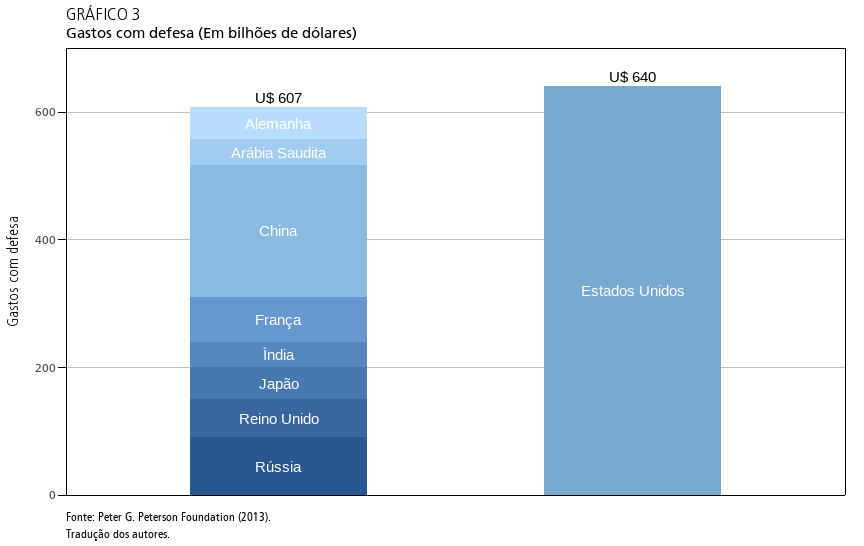
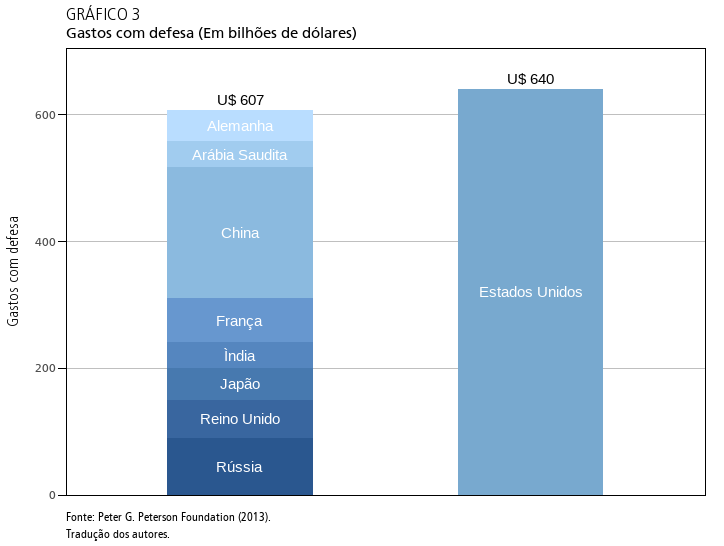
Deploying to gh-pages from @ ipeadata-lab/ipeaplot@39b6aeb59ce3860e448aad40e59edc08a3f2ebe5 🚀

diff --git a/articles/cookbook.html b/articles/cookbook.html
@@ -71,7 +71,7 @@
   <main id="main" class="col-md-9"><div class="page-header">
       <img src="" class="logo" alt=""><h1>Cookbook ipeaplot</h1>
             
-            <h4 data-toc-skip class="date">2024-03-05</h4>
+            <h4 data-toc-skip class="date">2024-03-09</h4>
       
       <small class="dont-index">Source: <a href="https://github.com/ipeadata-lab/ipeaplot/blob/HEAD/vignettes/cookbook.Rmd" class="external-link"><code>vignettes/cookbook.Rmd</code></a></small>
       <div class="d-none name"><code>cookbook.Rmd</code></div>
@@ -228,7 +228,7 @@ Ipea.</p>
 <span>       title<span class="op">=</span><span class="st">"GRÁFICO 1"</span>,</span>
 <span>       subtitle<span class="op">=</span><span class="st">"Evolução do crescimento da população mundial 2000-2050\n(Em bilhões)"</span>,</span>
 <span>       caption <span class="op">=</span> <span class="st">'Fonte: United Nations (2012a).\nTradução dos autores.'</span><span class="op">)</span> <span class="op">+</span></span>
-<span>  <span class="fu"><a href="../reference/theme_ipea.html">theme_ipea</a></span><span class="op">(</span>x_breaks <span class="op">=</span> <span class="fl">10</span>,include_ticks <span class="op">=</span> <span class="cn">F</span>,</span>
+<span>  <span class="fu"><a href="../reference/theme_ipea.html">theme_ipea</a></span><span class="op">(</span>x_breaks <span class="op">=</span> <span class="fl">11</span>,include_ticks <span class="op">=</span> <span class="cn">F</span>,</span>
 <span>             include_x_text_title <span class="op">=</span> <span class="cn">F</span>,include_y_text_title <span class="op">=</span> <span class="cn">F</span><span class="op">)</span> <span class="op">+</span></span>
 <span>  <span class="fu"><a href="https://ggplot2.tidyverse.org/reference/geom_text.html" class="external-link">geom_text</a></span><span class="op">(</span><span class="fu"><a href="https://ggplot2.tidyverse.org/reference/aes.html" class="external-link">aes</a></span><span class="op">(</span>label <span class="op">=</span> <span class="fu"><a href="https://rdrr.io/r/base/grep.html" class="external-link">gsub</a></span><span class="op">(</span><span class="st">"\\."</span>, <span class="st">","</span>,<span class="fu"><a href="https://rdrr.io/r/base/Round.html" class="external-link">round</a></span><span class="op">(</span><span class="va">Populacao</span>,<span class="fl">1</span><span class="op">)</span><span class="op">)</span><span class="op">)</span>,</span>
 <span>            hjust <span class="op">=</span> <span class="fl">0.5</span>, vjust <span class="op">=</span> <span class="op">-</span><span class="fl">0.5</span><span class="op">)</span></span></code></pre></div>
@@ -256,9 +256,9 @@ Ipea.</p>
 <span>       title<span class="op">=</span><span class="st">"GRÁFICO 2"</span>,</span>
 <span>       subtitle<span class="op">=</span><span class="st">"Taxa de crescimento da população mundial (Em %)"</span>,</span>
 <span>       caption <span class="op">=</span> <span class="st">'Elaboração dos autores.'</span><span class="op">)</span> <span class="op">+</span></span>
-<span>  <span class="fu"><a href="../reference/theme_ipea.html">theme_ipea</a></span><span class="op">(</span>x_breaks <span class="op">=</span> <span class="fl">16</span>, x_text_angle <span class="op">=</span> <span class="fl">90</span>, include_ticks <span class="op">=</span> <span class="cn">F</span>,</span>
+<span>  <span class="fu"><a href="../reference/theme_ipea.html">theme_ipea</a></span><span class="op">(</span>x_breaks <span class="op">=</span> <span class="fl">16</span>, x_text_angle <span class="op">=</span> <span class="fl">90</span>, include_ticks <span class="op">=</span> <span class="cn">F</span>,expand_y_limit <span class="op">=</span> <span class="cn">T</span>,</span>
 <span>             include_x_text_title <span class="op">=</span> <span class="cn">F</span>,include_y_text_title <span class="op">=</span> <span class="cn">F</span><span class="op">)</span> <span class="op">+</span></span>
-<span>  <span class="fu"><a href="https://ggplot2.tidyverse.org/reference/geom_rug.html" class="external-link">geom_rug</a></span><span class="op">(</span>data <span class="op">=</span> <span class="va">ref</span>, <span class="fu"><a href="https://ggplot2.tidyverse.org/reference/aes.html" class="external-link">aes</a></span><span class="op">(</span>x <span class="op">=</span> <span class="va">Ano</span><span class="op">+</span><span class="fl">2.5</span><span class="op">)</span>,inherit.aes <span class="op">=</span> <span class="cn">FALSE</span>,</span>
+<span>  <span class="fu"><a href="https://ggplot2.tidyverse.org/reference/geom_rug.html" class="external-link">geom_rug</a></span><span class="op">(</span>data <span class="op">=</span> <span class="va">ref</span>, <span class="fu"><a href="https://ggplot2.tidyverse.org/reference/aes.html" class="external-link">aes</a></span><span class="op">(</span>x <span class="op">=</span> <span class="va">Ano</span><span class="op">+</span><span class="fl">1</span><span class="op">)</span>,inherit.aes <span class="op">=</span> <span class="cn">FALSE</span>,</span>
 <span>           outside <span class="op">=</span> <span class="cn">TRUE</span>, sides <span class="op">=</span> <span class="st">"b"</span>, length <span class="op">=</span> <span class="fu"><a href="https://rdrr.io/r/grid/unit.html" class="external-link">unit</a></span><span class="op">(</span><span class="fl">2</span>, <span class="st">"mm"</span><span class="op">)</span>, linewidth <span class="op">=</span> <span class="fl">0.25</span><span class="op">)</span> <span class="op">+</span></span>
 <span>  <span class="fu"><a href="https://ggplot2.tidyverse.org/reference/coord_cartesian.html" class="external-link">coord_cartesian</a></span><span class="op">(</span>clip <span class="op">=</span> <span class="st">"off"</span><span class="op">)</span></span></code></pre></div>
 <p><img src="prints_ipeaplot/grafico2.png" width="100%" style="display: block; margin: auto;"></p>
@@ -341,7 +341,8 @@ Ipea.</p>
 <span>       title<span class="op">=</span><span class="st">"GRÁFICO 5"</span>,</span>
 <span>       subtitle<span class="op">=</span><span class="st">"Crescimento anual do PIB da União Europeia (2004-2013) (Em %)"</span>,</span>
 <span>       caption <span class="op">=</span> <span class="st">'Fonte: World Bank (2014).\nTradução dos autores.\nObs.: Os dados foram coletados no sítio do Banco Mundial.\nDisponível em: &lt;http://goo.gl/IvtZ1a&gt;. Acesso em: 26 set. 2014.'</span><span class="op">)</span> <span class="op">+</span></span>
-<span>  <span class="fu"><a href="../reference/theme_ipea.html">theme_ipea</a></span><span class="op">(</span>x_breaks <span class="op">=</span> <span class="fl">8</span>, y_breaks <span class="op">=</span> <span class="fl">10</span>, legend.position <span class="op">=</span> <span class="st">'bottom'</span>, expand_x_limit <span class="op">=</span> <span class="cn">F</span>,</span>
+<span>  <span class="fu"><a href="../reference/theme_ipea.html">theme_ipea</a></span><span class="op">(</span>x_breaks <span class="op">=</span> <span class="fl">8</span>, y_breaks <span class="op">=</span> <span class="fl">10</span>, legend.position <span class="op">=</span> <span class="st">'bottom'</span>,</span>
+<span>             expand_y_limit <span class="op">=</span> <span class="cn">T</span>,expand_x_limit <span class="op">=</span> <span class="cn">F</span>,</span>
 <span>             include_x_text_title <span class="op">=</span> <span class="cn">F</span>,include_y_text_title <span class="op">=</span> <span class="cn">F</span><span class="op">)</span> <span class="op">+</span></span>
 <span>  <span class="fu"><a href="../reference/scale_color_ipea.html">scale_color_ipea</a></span><span class="op">(</span>palette_direction <span class="op">=</span> <span class="op">-</span><span class="fl">1</span>, <span class="op">)</span> <span class="op">+</span></span>
 <span>  <span class="fu"><a href="https://ggplot2.tidyverse.org/reference/scale_manual.html" class="external-link">scale_shape_manual</a></span><span class="op">(</span>values <span class="op">=</span> <span class="fu"><a href="https://rdrr.io/r/base/c.html" class="external-link">c</a></span><span class="op">(</span><span class="fl">19</span>, <span class="fl">21</span><span class="op">)</span><span class="op">)</span> <span class="op">+</span></span>
@@ -355,14 +356,12 @@ Ipea.</p>
 <div class="section level3">
 <h3 id="original-5">Original<a class="anchor" aria-label="anchor" href="#original-5"></a>
 </h3>
-<div class="sourceCode" id="cb8"><pre class="downlit sourceCode r">
-<code class="sourceCode R"><span><span class="fu">knitr</span><span class="fu">::</span><span class="fu"><a href="https://rdrr.io/pkg/knitr/man/include_graphics.html" class="external-link">include_graphics</a></span><span class="op">(</span><span class="fu"><a href="https://rdrr.io/r/base/paste.html" class="external-link">paste0</a></span><span class="op">(</span><span class="fu"><a href="https://rdrr.io/r/base/getwd.html" class="external-link">getwd</a></span><span class="op">(</span><span class="op">)</span>,<span class="st">"/prints_original/grafico6.png"</span><span class="op">)</span><span class="op">)</span></span></code></pre></div>
 <p><img src="prints_original/grafico6.png" width="100%" style="display: block; margin: auto;"></p>
 </div>
 <div class="section level3">
 <h3 id="padrão-ipea-5">Padrão Ipea<a class="anchor" aria-label="anchor" href="#padr%C3%A3o-ipea-5"></a>
 </h3>
-<div class="sourceCode" id="cb9"><pre class="downlit sourceCode r">
+<div class="sourceCode" id="cb8"><pre class="downlit sourceCode r">
 <code class="sourceCode R"><span><span class="va">base_graf6</span><span class="op">$</span><span class="va">pais</span><span class="op">&lt;-</span> <span class="fu"><a href="https://rdrr.io/r/base/factor.html" class="external-link">factor</a></span><span class="op">(</span><span class="va">base_graf6</span><span class="op">$</span><span class="va">pais</span>, levels<span class="op">=</span><span class="fu"><a href="https://rdrr.io/r/base/rev.html" class="external-link">rev</a></span><span class="op">(</span><span class="fu"><a href="https://rdrr.io/r/base/sort.html" class="external-link">sort</a></span><span class="op">(</span><span class="va">base_graf6</span><span class="op">$</span><span class="va">pais</span><span class="op">)</span><span class="op">)</span><span class="op">)</span></span>
 <span><span class="va">graf6</span> <span class="op">&lt;-</span> <span class="fu"><a href="https://ggplot2.tidyverse.org/reference/ggplot.html" class="external-link">ggplot</a></span><span class="op">(</span>data<span class="op">=</span><span class="va">base_graf6</span>, <span class="fu"><a href="https://ggplot2.tidyverse.org/reference/aes.html" class="external-link">aes</a></span><span class="op">(</span>x<span class="op">=</span><span class="va">pais</span>, y<span class="op">=</span><span class="va">petroleo</span><span class="op">)</span><span class="op">)</span> <span class="op">+</span></span>
 <span>  <span class="fu"><a href="https://ggplot2.tidyverse.org/reference/geom_bar.html" class="external-link">geom_bar</a></span><span class="op">(</span>stat<span class="op">=</span><span class="st">"identity"</span>, fill <span class="op">=</span> <span class="st">'#015f96'</span><span class="op">)</span> <span class="op">+</span></span>
@@ -387,7 +386,7 @@ Ipea.</p>
 <div class="section level3">
 <h3 id="padrão-ipea-6">Padrão Ipea<a class="anchor" aria-label="anchor" href="#padr%C3%A3o-ipea-6"></a>
 </h3>
-<div class="sourceCode" id="cb10"><pre class="downlit sourceCode r">
+<div class="sourceCode" id="cb9"><pre class="downlit sourceCode r">
 <code class="sourceCode R"><span><span class="va">base_graf7</span><span class="op">&lt;-</span> <span class="fu"><a href="https://rdrr.io/pkg/reshape/man/melt-24.html" class="external-link">melt</a></span><span class="op">(</span><span class="va">base_graf7</span>, id<span class="op">=</span><span class="fu"><a href="https://rdrr.io/r/base/c.html" class="external-link">c</a></span><span class="op">(</span><span class="st">"pais"</span><span class="op">)</span><span class="op">)</span></span>
 <span></span>
 <span><span class="va">graf7</span> <span class="op">&lt;-</span> <span class="fu"><a href="https://ggplot2.tidyverse.org/reference/ggplot.html" class="external-link">ggplot</a></span><span class="op">(</span>data<span class="op">=</span><span class="va">base_graf7</span>, <span class="fu"><a href="https://ggplot2.tidyverse.org/reference/aes.html" class="external-link">aes</a></span><span class="op">(</span>x<span class="op">=</span><span class="va">pais</span>, y<span class="op">=</span><span class="va">value</span>, group<span class="op">=</span><span class="va">variable</span>, fill<span class="op">=</span><span class="va">variable</span><span class="op">)</span><span class="op">)</span> <span class="op">+</span></span>
@@ -414,36 +413,37 @@ Ipea.</p>
 <div class="section level3">
 <h3 id="padrão-ipea-7">Padrão Ipea<a class="anchor" aria-label="anchor" href="#padr%C3%A3o-ipea-7"></a>
 </h3>
-<div class="sourceCode" id="cb11"><pre class="downlit sourceCode r">
+<div class="sourceCode" id="cb10"><pre class="downlit sourceCode r">
 <code class="sourceCode R"><span><span class="co">######## GRAFICO 8</span></span>
 <span><span class="va">base_graf8_aux</span> <span class="op">&lt;-</span> <span class="va">base_graf8</span><span class="op">[</span>,<span class="fu"><a href="https://rdrr.io/r/base/c.html" class="external-link">c</a></span><span class="op">(</span><span class="fl">1</span>,<span class="fl">4</span><span class="op">)</span><span class="op">]</span></span>
 <span><span class="va">base_graf8_aux</span><span class="op">$</span><span class="va">n</span> <span class="op">&lt;-</span> <span class="fl">1</span><span class="op">:</span><span class="fu"><a href="https://rdrr.io/r/base/nrow.html" class="external-link">nrow</a></span><span class="op">(</span><span class="va">base_graf8_aux</span><span class="op">)</span></span>
-<span><span class="va">base_graf8</span><span class="op">&lt;-</span> <span class="fu"><a href="https://rdrr.io/pkg/reshape/man/melt-24.html" class="external-link">melt</a></span><span class="op">(</span><span class="va">base_graf8</span><span class="op">[</span>,<span class="op">-</span><span class="fl">4</span><span class="op">]</span>, id<span class="op">=</span><span class="fu"><a href="https://rdrr.io/r/base/c.html" class="external-link">c</a></span><span class="op">(</span><span class="st">"pais"</span><span class="op">)</span><span class="op">)</span></span>
+<span><span class="va">base_graf8_new</span> <span class="op">&lt;-</span> <span class="va">base_graf8</span><span class="op">[</span>,<span class="op">-</span><span class="fl">4</span><span class="op">]</span></span>
+<span><span class="va">base_graf8_new</span><span class="op">&lt;-</span> <span class="fu"><a href="https://rdrr.io/pkg/reshape/man/melt-24.html" class="external-link">melt</a></span><span class="op">(</span><span class="va">base_graf8_new</span>, id<span class="op">=</span><span class="fu"><a href="https://rdrr.io/r/base/c.html" class="external-link">c</a></span><span class="op">(</span><span class="st">"pais"</span><span class="op">)</span><span class="op">)</span></span>
 <span></span>
-<span><span class="va">base_graf8</span> <span class="op">&lt;-</span> <span class="va">base_graf8</span> <span class="op"><a href="https://magrittr.tidyverse.org/reference/pipe.html" class="external-link">%&gt;%</a></span></span>
+<span><span class="va">base_graf8_new</span> <span class="op">&lt;-</span> <span class="va">base_graf8_new</span> <span class="op"><a href="https://magrittr.tidyverse.org/reference/pipe.html" class="external-link">%&gt;%</a></span></span>
 <span>  <span class="fu"><a href="https://dplyr.tidyverse.org/reference/group_by.html" class="external-link">group_by</a></span><span class="op">(</span><span class="va">variable</span><span class="op">)</span> <span class="op"><a href="https://magrittr.tidyverse.org/reference/pipe.html" class="external-link">%&gt;%</a></span></span>
 <span>  <span class="fu"><a href="https://dplyr.tidyverse.org/reference/mutate.html" class="external-link">mutate</a></span><span class="op">(</span>n <span class="op">=</span> <span class="fl">1</span><span class="op">:</span><span class="fu"><a href="https://dplyr.tidyverse.org/reference/context.html" class="external-link">n</a></span><span class="op">(</span><span class="op">)</span><span class="op">)</span></span>
 <span></span>
-<span><span class="va">label</span> <span class="op">&lt;-</span> <span class="op">(</span><span class="va">base_graf8</span> <span class="op"><a href="https://magrittr.tidyverse.org/reference/pipe.html" class="external-link">%&gt;%</a></span> <span class="fu"><a href="https://dplyr.tidyverse.org/reference/group_by.html" class="external-link">ungroup</a></span><span class="op">(</span><span class="op">)</span> <span class="op"><a href="https://magrittr.tidyverse.org/reference/pipe.html" class="external-link">%&gt;%</a></span> <span class="fu"><a href="https://dplyr.tidyverse.org/reference/distinct.html" class="external-link">distinct</a></span><span class="op">(</span><span class="va">pais</span><span class="op">)</span><span class="op">)</span><span class="op">$</span><span class="va">pais</span></span>
+<span><span class="va">label</span> <span class="op">&lt;-</span> <span class="op">(</span><span class="va">base_graf8_new</span> <span class="op"><a href="https://magrittr.tidyverse.org/reference/pipe.html" class="external-link">%&gt;%</a></span> <span class="fu"><a href="https://dplyr.tidyverse.org/reference/group_by.html" class="external-link">ungroup</a></span><span class="op">(</span><span class="op">)</span> <span class="op"><a href="https://magrittr.tidyverse.org/reference/pipe.html" class="external-link">%&gt;%</a></span> <span class="fu"><a href="https://dplyr.tidyverse.org/reference/distinct.html" class="external-link">distinct</a></span><span class="op">(</span><span class="va">pais</span><span class="op">)</span><span class="op">)</span><span class="op">$</span><span class="va">pais</span></span>
 <span></span>
 <span><span class="va">graf8</span> <span class="op">&lt;-</span></span>
 <span>  <span class="fu"><a href="https://ggplot2.tidyverse.org/reference/ggplot.html" class="external-link">ggplot</a></span><span class="op">(</span><span class="op">)</span> <span class="op">+</span></span>
-<span>  <span class="fu"><a href="https://ggplot2.tidyverse.org/reference/geom_bar.html" class="external-link">geom_bar</a></span><span class="op">(</span>data<span class="op">=</span><span class="va">base_graf8</span>, <span class="fu"><a href="https://ggplot2.tidyverse.org/reference/aes.html" class="external-link">aes</a></span><span class="op">(</span>x<span class="op">=</span><span class="va">n</span>, y<span class="op">=</span><span class="va">value</span>,</span>
-<span>                                group<span class="op">=</span><span class="va">variable</span>, fill<span class="op">=</span><span class="va">variable</span><span class="op">)</span>,</span>
-<span>           stat<span class="op">=</span><span class="st">"identity"</span>, width <span class="op">=</span> <span class="fl">0.5</span><span class="op">)</span> <span class="op">+</span></span>
-<span>  <span class="fu"><a href="https://ggplot2.tidyverse.org/reference/labs.html" class="external-link">labs</a></span><span class="op">(</span>fill <span class="op">=</span> <span class="st">""</span>,</span>
-<span>       title<span class="op">=</span><span class="st">"GRÁFICO 8"</span>,</span>
-<span>       subtitle<span class="op">=</span><span class="st">"Crescimento médio real do PIB em PPC (2011-2050) (Em %)"</span>,</span>
-<span>       caption <span class="op">=</span> <span class="st">'Fonte: PwC (2014).\nTradução dos autores'</span><span class="op">)</span> <span class="op">+</span></span>
-<span>  <span class="fu"><a href="https://ggplot2.tidyverse.org/reference/geom_path.html" class="external-link">geom_line</a></span><span class="op">(</span>data<span class="op">=</span><span class="va">base_graf8_aux</span>, <span class="fu"><a href="https://ggplot2.tidyverse.org/reference/aes.html" class="external-link">aes</a></span><span class="op">(</span>x<span class="op">=</span><span class="va">n</span> ,y<span class="op">=</span><span class="va">`crescimento do PIB (ppc)_perct`</span>, group <span class="op">=</span> <span class="fl">1</span><span class="op">)</span>,</span>
-<span>            color <span class="op">=</span> <span class="st">'gray'</span><span class="op">)</span> <span class="op">+</span></span>
-<span>  <span class="fu"><a href="https://ggplot2.tidyverse.org/reference/scale_continuous.html" class="external-link">scale_x_continuous</a></span><span class="op">(</span>breaks <span class="op">=</span> <span class="fl">1</span><span class="op">:</span><span class="fu"><a href="https://rdrr.io/r/base/Extremes.html" class="external-link">max</a></span><span class="op">(</span><span class="va">base_graf8</span><span class="op">$</span><span class="va">n</span><span class="op">)</span>, labels <span class="op">=</span> <span class="va">label</span><span class="op">)</span> <span class="op">+</span></span>
-<span>  <span class="fu"><a href="../reference/scale_fill_ipea.html">scale_fill_ipea</a></span><span class="op">(</span><span class="op">)</span> <span class="op">+</span></span>
-<span>  <span class="fu"><a href="../reference/theme_ipea.html">theme_ipea</a></span><span class="op">(</span>legend.position <span class="op">=</span> <span class="st">'bottom'</span>, x_text_angle <span class="op">=</span> <span class="fl">90</span>, include_ticks <span class="op">=</span> <span class="cn">F</span>,</span>
-<span>             include_x_text_title <span class="op">=</span> <span class="cn">F</span>,include_y_text_title <span class="op">=</span> <span class="cn">F</span><span class="op">)</span> <span class="op">+</span></span>
-<span>  <span class="fu"><a href="https://ggplot2.tidyverse.org/reference/geom_rug.html" class="external-link">geom_rug</a></span><span class="op">(</span>data<span class="op">=</span><span class="va">base_graf8</span>, <span class="fu"><a href="https://ggplot2.tidyverse.org/reference/aes.html" class="external-link">aes</a></span><span class="op">(</span>x <span class="op">=</span> <span class="va">n</span><span class="op">-</span><span class="fl">0.5</span><span class="op">)</span>,</span>
-<span>           outside <span class="op">=</span> <span class="cn">TRUE</span>, sides <span class="op">=</span> <span class="st">"b"</span>, length <span class="op">=</span> <span class="fu"><a href="https://rdrr.io/r/grid/unit.html" class="external-link">unit</a></span><span class="op">(</span><span class="fl">2</span>, <span class="st">"mm"</span><span class="op">)</span>, linewidth <span class="op">=</span> <span class="fl">0.25</span><span class="op">)</span> <span class="op">+</span></span>
-<span>  <span class="fu"><a href="https://ggplot2.tidyverse.org/reference/coord_cartesian.html" class="external-link">coord_cartesian</a></span><span class="op">(</span>expand <span class="op">=</span> <span class="cn">FALSE</span>, clip <span class="op">=</span> <span class="st">"off"</span><span class="op">)</span></span></code></pre></div>
+<span>    <span class="fu"><a href="https://ggplot2.tidyverse.org/reference/geom_bar.html" class="external-link">geom_bar</a></span><span class="op">(</span>data<span class="op">=</span><span class="va">base_graf8_new</span>, <span class="fu"><a href="https://ggplot2.tidyverse.org/reference/aes.html" class="external-link">aes</a></span><span class="op">(</span>x<span class="op">=</span><span class="va">n</span><span class="op">-</span><span class="fl">0.5</span>, y<span class="op">=</span><span class="va">value</span>,</span>
+<span>                                      group<span class="op">=</span><span class="va">variable</span>, fill<span class="op">=</span><span class="va">variable</span><span class="op">)</span>,</span>
+<span>             stat<span class="op">=</span><span class="st">"identity"</span>, width <span class="op">=</span> <span class="fl">0.5</span><span class="op">)</span> <span class="op">+</span></span>
+<span>    <span class="fu"><a href="https://ggplot2.tidyverse.org/reference/labs.html" class="external-link">labs</a></span><span class="op">(</span>fill <span class="op">=</span> <span class="st">""</span>,</span>
+<span>         title<span class="op">=</span><span class="st">"GRÁFICO 8"</span>,</span>
+<span>         subtitle<span class="op">=</span><span class="st">"Crescimento médio real do PIB em PPC (2011-2050) (Em %)"</span>,</span>
+<span>         caption <span class="op">=</span> <span class="st">'Fonte: PwC (2014).\nTradução dos autores'</span><span class="op">)</span> <span class="op">+</span></span>
+<span>    <span class="fu"><a href="https://ggplot2.tidyverse.org/reference/geom_path.html" class="external-link">geom_line</a></span><span class="op">(</span>data<span class="op">=</span><span class="va">base_graf8_aux</span>, <span class="fu"><a href="https://ggplot2.tidyverse.org/reference/aes.html" class="external-link">aes</a></span><span class="op">(</span>x<span class="op">=</span><span class="va">n</span><span class="op">-</span><span class="fl">0.5</span> ,y<span class="op">=</span><span class="va">`crescimento do PIB (ppc)_perct`</span>, group <span class="op">=</span> <span class="fl">1</span><span class="op">)</span>,</span>
+<span>              color <span class="op">=</span> <span class="st">'gray'</span><span class="op">)</span> <span class="op">+</span></span>
+<span>    <span class="fu"><a href="https://ggplot2.tidyverse.org/reference/scale_continuous.html" class="external-link">scale_x_continuous</a></span><span class="op">(</span>breaks <span class="op">=</span> <span class="fl">1</span><span class="op">:</span><span class="fu"><a href="https://rdrr.io/r/base/Extremes.html" class="external-link">max</a></span><span class="op">(</span><span class="va">base_graf8_new</span><span class="op">$</span><span class="va">n</span><span class="op">)</span>, labels <span class="op">=</span> <span class="va">label</span><span class="op">)</span> <span class="op">+</span></span>
+<span>    <span class="fu"><a href="../reference/scale_fill_ipea.html">scale_fill_ipea</a></span><span class="op">(</span><span class="op">)</span> <span class="op">+</span></span>
+<span>    <span class="fu"><a href="../reference/theme_ipea.html">theme_ipea</a></span><span class="op">(</span>legend.position <span class="op">=</span> <span class="st">'bottom'</span>, x_text_angle <span class="op">=</span> <span class="fl">90</span>, include_ticks <span class="op">=</span> <span class="cn">F</span>,</span>
+<span>               include_x_text_title <span class="op">=</span> <span class="cn">F</span>,include_y_text_title <span class="op">=</span> <span class="cn">F</span>, expand_x_limit <span class="op">=</span> <span class="cn">T</span><span class="op">)</span> <span class="op">+</span></span>
+<span>    <span class="fu"><a href="https://ggplot2.tidyverse.org/reference/geom_rug.html" class="external-link">geom_rug</a></span><span class="op">(</span>data<span class="op">=</span><span class="va">base_graf8_new</span>, <span class="fu"><a href="https://ggplot2.tidyverse.org/reference/aes.html" class="external-link">aes</a></span><span class="op">(</span>x <span class="op">=</span> <span class="va">n</span> <span class="op">-</span> <span class="fl">1</span><span class="op">)</span>,</span>
+<span>             outside <span class="op">=</span> <span class="cn">TRUE</span>, sides <span class="op">=</span> <span class="st">"b"</span>, length <span class="op">=</span> <span class="fu"><a href="https://rdrr.io/r/grid/unit.html" class="external-link">unit</a></span><span class="op">(</span><span class="fl">2</span>, <span class="st">"mm"</span><span class="op">)</span>, linewidth <span class="op">=</span> <span class="fl">0.25</span><span class="op">)</span> <span class="op">+</span></span>
+<span>    <span class="fu"><a href="https://ggplot2.tidyverse.org/reference/coord_cartesian.html" class="external-link">coord_cartesian</a></span><span class="op">(</span> clip <span class="op">=</span> <span class="st">"off"</span><span class="op">)</span></span></code></pre></div>
 <p><img src="prints_ipeaplot/grafico8.png" width="100%" style="display: block; margin: auto;"></p>
 </div>
 </div>

diff --git a/reference/theme_ipea.html b/reference/theme_ipea.html
@@ -63,16 +63,17 @@ function includes standardized formatting of options for axis lines, text,</p>
     <h2 id="ref-usage">Usage<a class="anchor" aria-label="anchor" href="#ref-usage"></a></h2>
     <div class="sourceCode"><pre class="sourceCode r"><code><span><span class="fu">theme_ipea</span><span class="op">(</span></span>
 <span>  axis_lines <span class="op">=</span> <span class="st">"full"</span>,</span>
-<span>  axis_values <span class="op">=</span> <span class="cn">T</span>,</span>
+<span>  axis_values <span class="op">=</span> <span class="cn">TRUE</span>,</span>
 <span>  legend.position <span class="op">=</span> <span class="st">"right"</span>,</span>
 <span>  grid.adjust <span class="op">=</span> <span class="st">"horizontal"</span>,</span>
-<span>  <span class="va">x_breaks</span>,</span>
-<span>  <span class="va">y_breaks</span>,</span>
-<span>  expand_x_limit <span class="op">=</span> <span class="cn">T</span>,</span>
+<span>  x_breaks <span class="op">=</span> <span class="cn">NULL</span>,</span>
+<span>  y_breaks <span class="op">=</span> <span class="cn">NULL</span>,</span>
+<span>  expand_x_limit <span class="op">=</span> <span class="cn">TRUE</span>,</span>
+<span>  expand_y_limit <span class="op">=</span> <span class="cn">FALSE</span>,</span>
 <span>  x_text_angle <span class="op">=</span> <span class="fl">0</span>,</span>
-<span>  include_x_text_title <span class="op">=</span> <span class="cn">T</span>,</span>
-<span>  include_y_text_title <span class="op">=</span> <span class="cn">T</span>,</span>
-<span>  include_ticks <span class="op">=</span> <span class="cn">T</span>,</span>
+<span>  include_x_text_title <span class="op">=</span> <span class="cn">TRUE</span>,</span>
+<span>  include_y_text_title <span class="op">=</span> <span class="cn">TRUE</span>,</span>
+<span>  include_ticks <span class="op">=</span> <span class="cn">TRUE</span>,</span>
 <span>  <span class="va">...</span></span>
 <span><span class="op">)</span></span></code></pre></div>
     </div>
@@ -114,6 +115,12 @@ legend. Valid options are <code>"right"</code> (default), <code>"left"</code>, <
 <dd><p>Logical value that indicates whether the x-axis
 boundary should be expanded. If <code>TRUE</code>, the x-axis text will be
 expanded; otherwise there will be no change</p></dd>
+
+
+<dt>expand_y_limit</dt>
+<dd><p>Logical value that indicates whether the y-axis
+boundary should be expanded. If <code>FALSE</code>, the x-axis text will be no
+expanded; otherwise there will be change</p></dd>
 
 
 <dt>x_text_angle</dt>

diff --git a/articles/intro_ipeaplot.html b/articles/intro_ipeaplot.html
@@ -71,7 +71,7 @@
   <main id="main" class="col-md-9"><div class="page-header">
       <img src="" class="logo" alt=""><h1>Introdução ao ipeaplot</h1>
             
-            <h4 data-toc-skip class="date">2024-03-05</h4>
+            <h4 data-toc-skip class="date">2024-03-09</h4>
       
       <small class="dont-index">Source: <a href="https://github.com/ipeadata-lab/ipeaplot/blob/HEAD/vignettes/intro_ipeaplot.Rmd" class="external-link"><code>vignettes/intro_ipeaplot.Rmd</code></a></small>
       <div class="d-none name"><code>intro_ipeaplot.Rmd</code></div>
